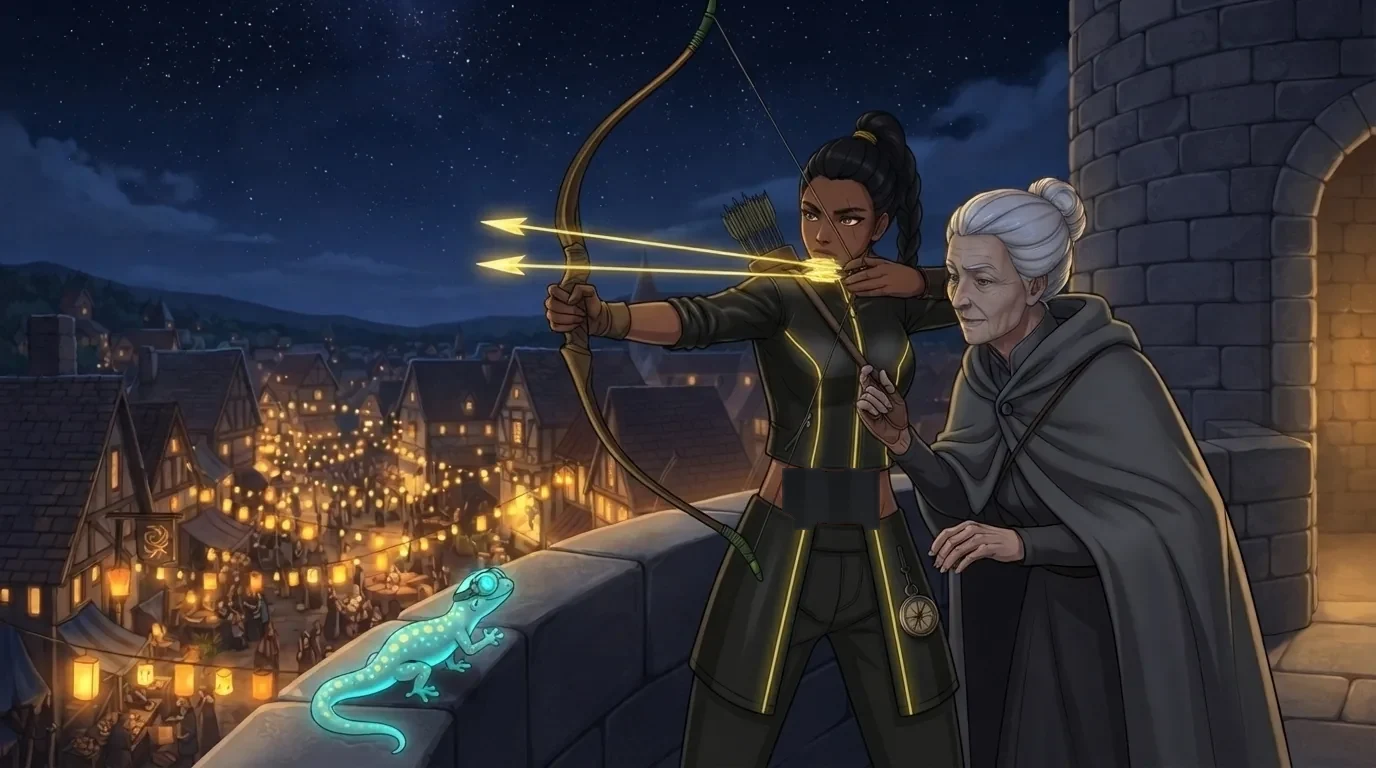
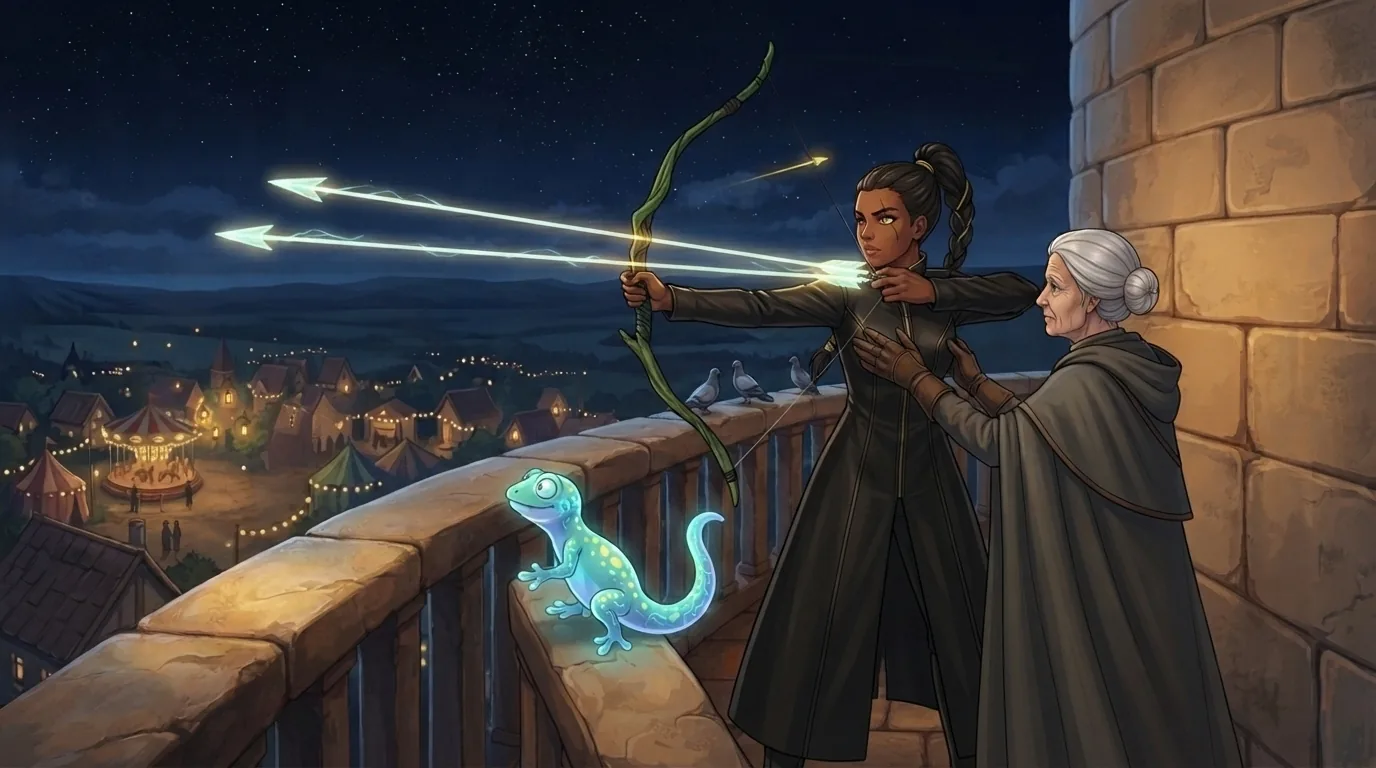
content(js): escenas R04-N06 y R04-N07-P1 (168 de 313); pendientes.py pide a Nima con saco largo, que le tapa la cintura

diff --git a/scripts/escenas/pendientes.py b/scripts/escenas/pendientes.py
@@ -170,7 +170,7 @@ REFS = {
         },
         'chars': [
             # La segunda referencia es la escena de la calesita (R01-N03-P1): ahí la ropa salió cerrada; con la ficha sola, el modelo liviano a veces le deja la panza al aire.
-            (r'\bNima\b', 'Nima', ['2fca95e351484814bbdeb8294f4c623b', 'c1beb5a9084e4492b1d9fb759dd0eb35'], 'Nima aparece UNA sola vez. Nima tiene la piel morena oscura y lleva la chaqueta de cuero negra CERRADA con el cierre subido, larga hasta la cadera, como en la escena de la calesita: nada de panza ni piel del torso a la vista.'),
+            (r'\bNima\b', 'Nima', ['2fca95e351484814bbdeb8294f4c623b', 'c1beb5a9084e4492b1d9fb759dd0eb35'], 'Nima aparece UNA sola vez. Nima tiene la piel morena oscura y lleva un saco de cuero negro largo hasta los muslos, cerrado del cuello hasta abajo, que le tapa toda la cintura (si la chaqueta es corta, Stitch le deja la panza al aire).'),
             (r'Lumina', 'Lumina', ['bdf51a14044046ffbd08a31cec35773e'], 'Lumina es una luciérnaga enorme, del tamaño de una persona, que flota: un INSECTO de verdad, como en su referencia (seis patitas, antenas, coronita dorada, alas de vidrio y el abdomen que brilla amarillo); nada de hada ni de cuerpo de persona.'),
             (r'Gheco|gecko', 'Gheco', ['11514129442070458985'], 'Gheco es un gecko chiquito, que cabe en la palma de una mano, de color cian brillante con manchas amarillas.'),
             (r'\bBruno\b', 'Bruno', ['aa2b4f906be344918c60e9553fed907c'], 'Bruno es un chico de 12 años, con gorra negra al revés, chaleco ROJO inflado sobre buzo oscuro y zapatillas rojas.'),
